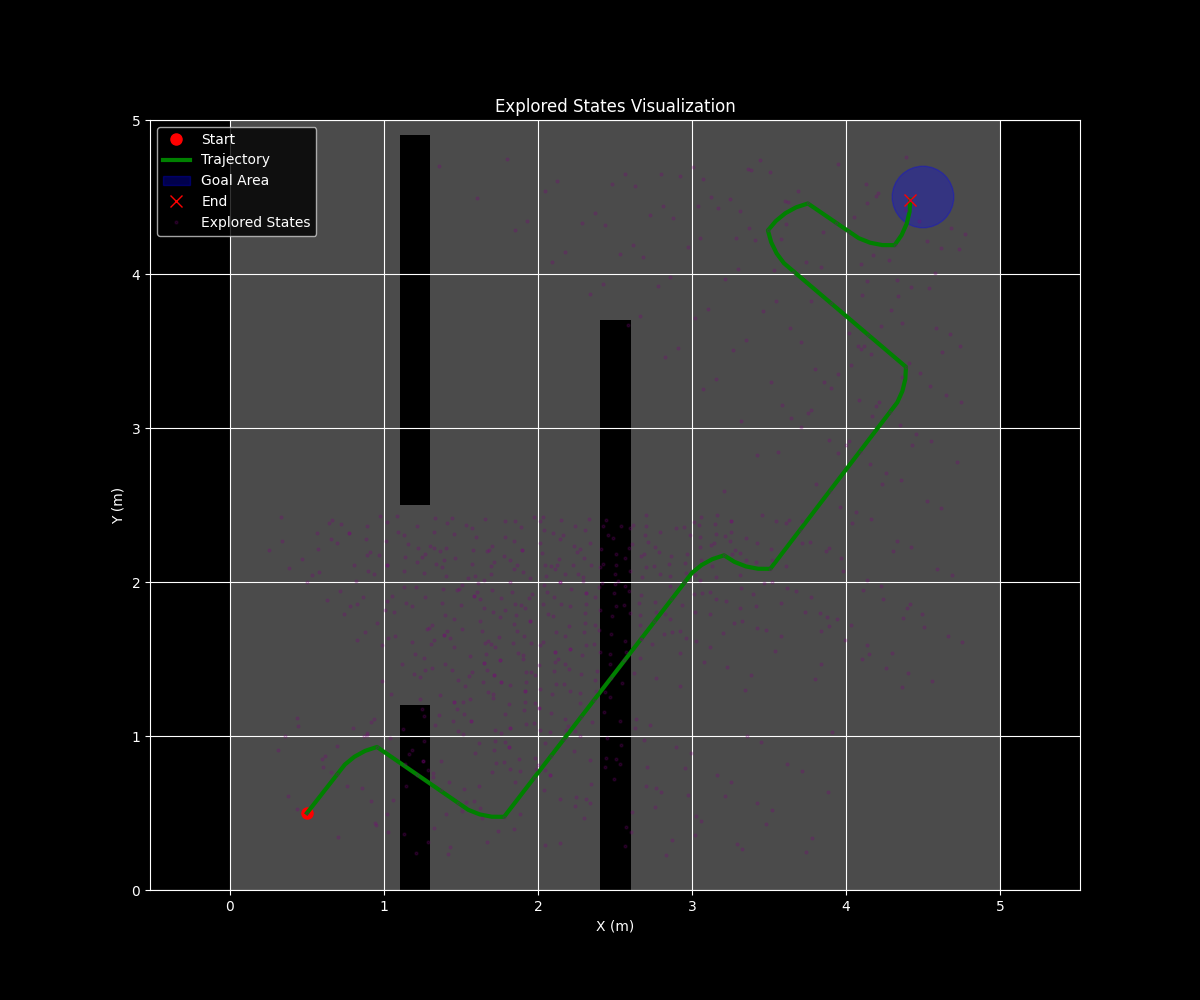
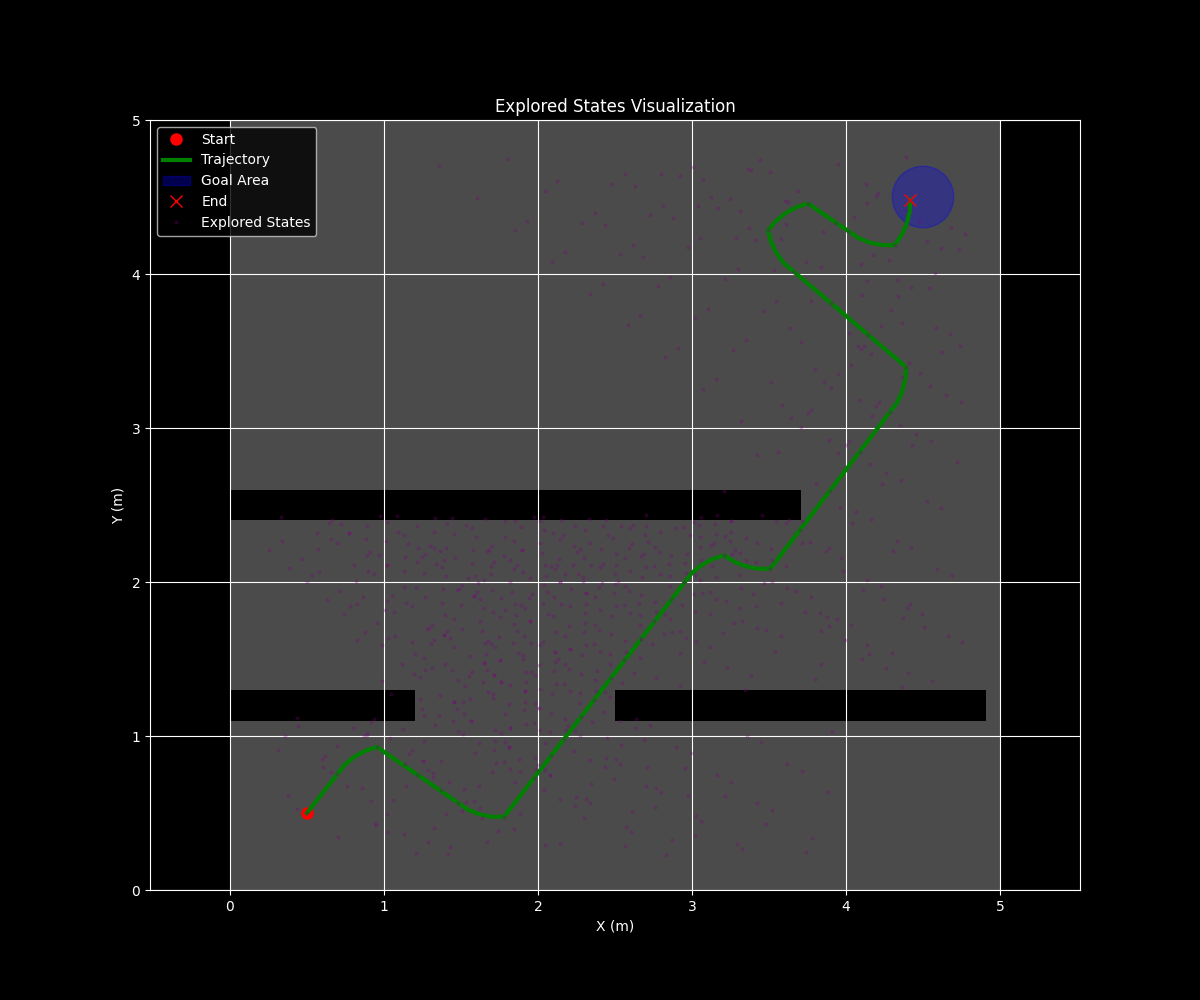
Fix occupancy grid display and update path planning completion time in tuning parameters

Changed region(s): [[0.185, 0.124, 0.8325, 0.899], [0.185, 0.682, 0.37, 0.899]]

diff --git a/path_optimizing_algorithms/LatticeMotionPlanner.py b/path_optimizing_algorithms/LatticeMotionPlanner.py
@@ -885,7 +885,7 @@ class DiscreteLatticeMotionPlanner:
         # Draw occupancy grid
         if hasattr(self.grid, "binary_grid"):
             ax.imshow(
-                self.grid.binary_grid.T,
+                self.grid.binary_grid,
                 origin="lower",
                 extent=[0, self.grid.width, 0, self.grid.height],
                 cmap="gray_r",
